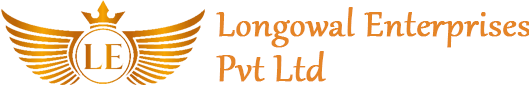
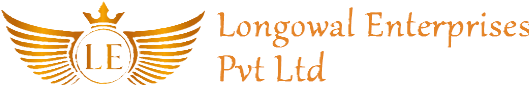
changes done

diff --git a/index.html b/index.html
@@ -1008,55 +1008,57 @@
                                 
                                 <!-- 3rd Logo End -->
                                 
-                                <!-- 4th Logo  -->
-                                 <div class="swiper-slide">
-                                    <div class="company-logo">
-                                        <a href="http://www.longowalenterprises.co.in/" target="_blank" rel="noopener">
-                                            <img src="images/longowal.png" alt="">
-                                        </a>
+                                <!-- 4th Logo (Longowal) -->
+                                <div class="swiper-slide">
+                                    <div class="company-logo longowal-logo">
+                                    <a href="http://www.longowalenterprises.co.in/" target="_blank" rel="noopener">
+                                        <img src="images/longowal.png" alt="">
+                                    </a>
                                     </div>
                                 </div>
                                 
-                                <!-- 5th Logo (text) -->
+                                <!-- 5th Logo -->
                                 <div class="swiper-slide">
                                     <div class="company-logo">
-                                        <span class="company-name">Subhanita Enterprise</span>
+                                        <img src="images/ajmera-m.png" alt="">
                                     </div>
                                 </div>
-                                <!-- 6th Logo (text) -->
+                                
+                                
+                                <!-- 6th Logo (Jain Agro) -->
                                 <div class="swiper-slide">
-                                    <div class="company-logo">
-                                        <span class="company-name">Jain Agro Chem</span>
+                                    <div class="company-logo jainagro-logo">
+                                    <img src="images/jain-agro.png" alt="">
                                     </div>
                                 </div>
-                                <!-- 6th Logo End -->
-
-                                <!-- 7th Logo Start -->
+                                
+                                <!-- 7th Logo (Lotus) -->
                                 <div class="swiper-slide">
-                                    <div class="company-logo">
-                                        <span class="company-name">Ajmera Brothers</span>
+                                    <div class="company-logo lotus-logo">
+                                    <img src="images/lotus-agro.png" alt="">
                                     </div>
                                 </div>
-                                <!-- 7th Logo End -->
-
-                                <!-- 8th Logo (text) -->
+                                
+                                <!-- 8th Logo (Agro Bharati) -->
                                 <div class="swiper-slide">
-                                    <div class="company-logo">
-                                        <span class="company-name">Agro Bharati Industries Llp</span>
+                                    <div class="company-logo agrobharati-logo">
+                                    <img src="images/agro-bharati.png" alt="">
                                     </div>
                                 </div>
-                                <!-- 9th Logo (text) -->
+                                <!-- 9th Logo (Chakraborty) -->
                                 <div class="swiper-slide">
-                                    <div class="company-logo">
-                                        <span class="company-name">Shravika Enterprises</span>
+                                    <div class="company-logo chakraborty-logo">
+                                    <img src="images/chakraborty.png" alt="">
                                     </div>
                                 </div>
-                                <!-- 10th Logo (text) -->
+                                
+                                <!-- 10th Logo (Sharma Exports) -->
                                 <div class="swiper-slide">
-                                    <div class="company-logo">
-                                        <span class="company-name">Sharma exports</span>
+                                    <div class="company-logo sharmaexports-logo">
+                                    <img src="images/sharma-exports.png" alt="">
                                     </div>
                                 </div>
+                                
                                 <!-- 11th Logo (text) -->
                                 <div class="swiper-slide">
                                     <div class="company-logo">
@@ -1067,17 +1069,19 @@
                                 <!-- 12th Logo Start -->
                                 <div class="swiper-slide">
                                     <div class="company-logo">
-                                        <span class="company-name">Chakraborty Traders</span>
+                                        <span class="company-name">Shravika Enterprises</span>
                                     </div>
                                 </div>
+                                
                                 <!-- 12th Logo End -->
 
                                 <!-- 13th Logo (text) -->
                                 <div class="swiper-slide">
                                     <div class="company-logo">
-                                        <span class="company-name">LOTUS AGRO</span>
+                                        <span class="company-name">Subhanita Enterprise</span>
                                     </div>
                                 </div>
+                                
 
                             </div>
                         </div>

diff --git a/css/custom.css b/css/custom.css
@@ -2088,7 +2088,8 @@ header.main-header .header-sticky.active{
 
 .testimonial-company-slider .company-logo img{
 	width: 100%;
-	max-height: 70px;
+	height: 80px;      /* or larger, adjust as needed */
+  	min-height: 80px;
 }
 
 .company-logo .company-name {
@@ -2128,10 +2129,87 @@ header.main-header .header-sticky.active{
     }
 }
 
+/* 4th Logo: Longowal - shift down */
+.longowal-logo img {
+	padding-left: 10px; 
+  }
+  
+  /* 6th Logo: Jain Agro - increase height, decrease width */
+  .jainagro-logo img {
+	width: 100px !important;
+	height: 120px !important;
+	object-fit: contain;
+	padding-bottom: 30px !important;
+	/* align-items: flex-end !important; */
+  }
+  
+  /* 7th Logo: Lotus - decrease width, increase height */
+  .lotus-logo img {
+	width: 150px !important;
+	height: 160px !important;
+	object-fit: contain;
+	padding-bottom: 60px !important;
+  }
+  
+  /* 8th Logo: Agro Bharati - decrease width, increase height */
+  .agrobharati-logo img {
+	width: 200px !important;
+	height: 200px !important;
+	padding-bottom: 60px !important;
+	object-fit: contain;
+  }
+  
+  /* 9th Logo: Chakraborty - decrease width, increase height */
+  .chakraborty-logo img {
+	width: 150px !important;
+	height: 160px !important;
+	object-fit: contain;
+	padding-bottom: 50px !important;
+  }
+  
+  /* 10th Logo: Sharma Exports - shift down */
+  /* .sharmaexports-logo img {
+	margin-top: 20px; 
+  } */
+
 /************************************/
 /***       13. Our Blog css       ***/
 /************************************/
+.hero-bg-video {
+    position: absolute;
+    top: 0; left: 0; right: 0; bottom: 0;
+    width: 100vw;
+    height: 100vh;
+    overflow: hidden;
+    z-index: 0;
+}
 
+.hero-bg-video video {
+    position: absolute;
+    top: 50%;
+    left: 50%;
+    min-width: 100vw;
+    min-height: 100vh;
+    width: auto;
+    height: auto;
+    transform: translate(-50%, -50%) scale(1.2); /* Increase scale to crop more */
+    object-fit: cover;
+    object-position: center;
+    background: #000;
+}
+.hero {
+    position: relative;
+    width: 100vw;
+    min-height: 100vh;
+    padding: 0 !important;
+    overflow: hidden;
+    background: #000;
+}
+@media (max-width: 600px) {
+	.hero-bg-video video {
+	  transform: translate(-50%, -50%) scale(1.35); /* Increase scale for mobile */
+	}
+  }
 .our-blog{
 	padding: 100px 0 70px;
 }
